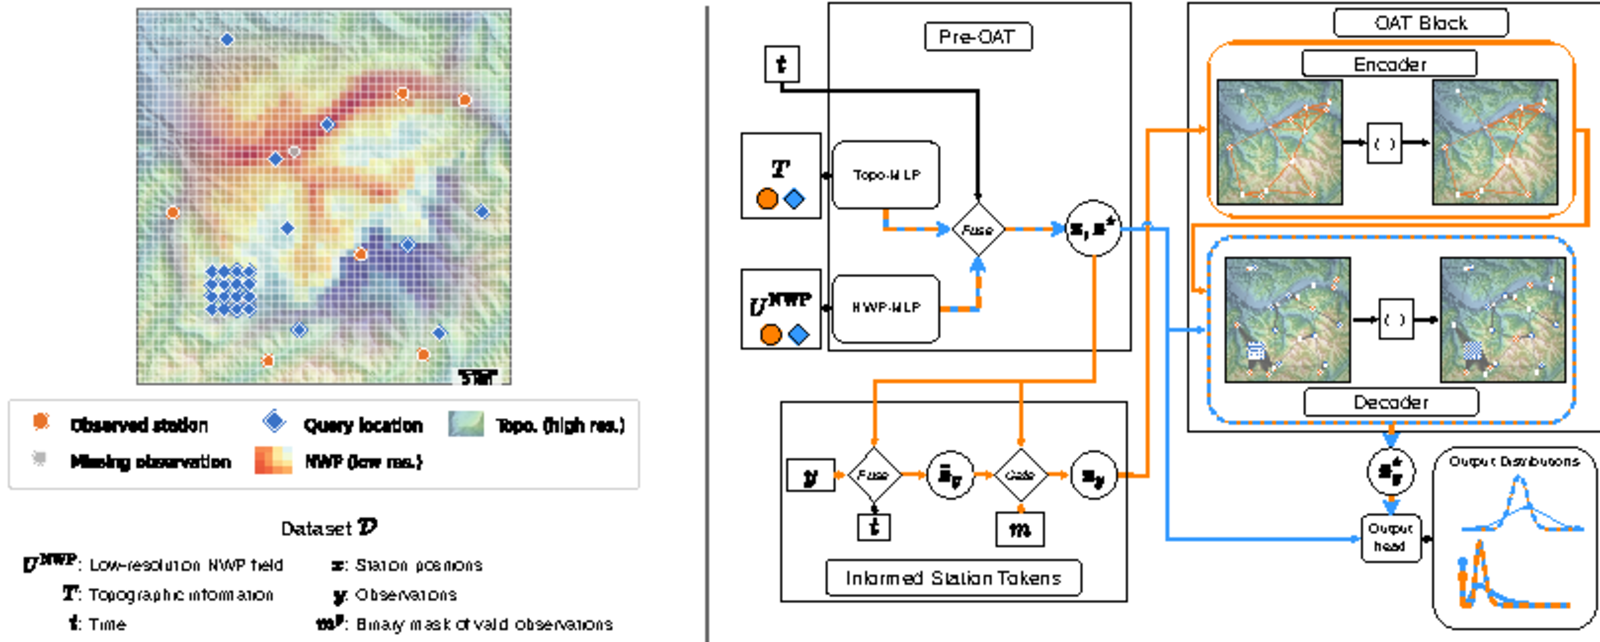
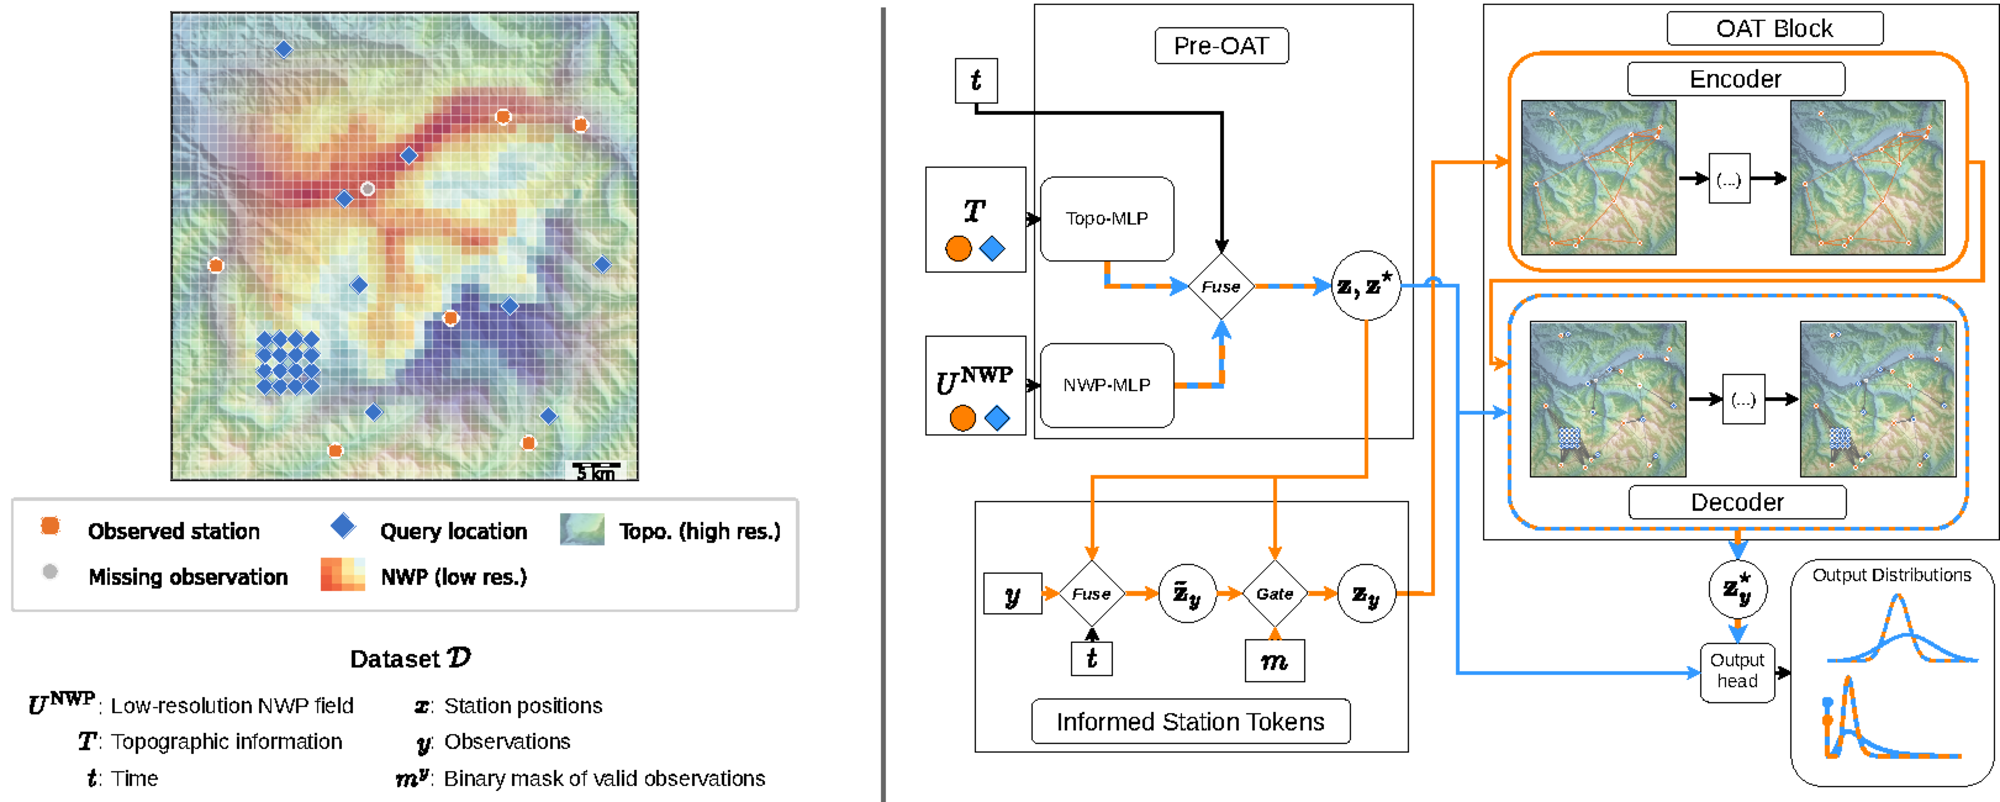
fix: clear the result folder note, scrub tar owners, and polish the docs

diff --git a/release/pack_artifacts.py b/release/pack_artifacts.py
@@ -46,6 +46,13 @@ def _walk(src: Path) -> list[Path]:
     return sorted(found)
 
 
+def _scrub_owner(info: tarfile.TarInfo) -> tarfile.TarInfo:
+    """Remove the owner names and ids. Keep the mode and the time."""
+    info.uid = info.gid = 0
+    info.uname = info.gname = ""
+    return info
+
+
 def _tar_tree(src: Path, arc_root: str, tar_path: Path, sums: list[str]) -> None:
     """Write the files below *src* to *tar_path* as ``<arc_root>/<rel>``."""
     files = _walk(src)
@@ -54,7 +61,7 @@ def _tar_tree(src: Path, arc_root: str, tar_path: Path, sums: list[str]) -> None
     with tarfile.open(tar_path, "w", dereference=True) as tar:
         for f in files:
             arc = f"{arc_root}/{f.relative_to(src).as_posix()}"
-            tar.add(f, arcname=arc, recursive=False)
+            tar.add(f, arcname=arc, recursive=False, filter=_scrub_owner)
             sums.append(f"{file_digest(f, 'sha256')}  {arc}")
 
 

diff --git a/test/oat_test/release/test_pack_artifacts.py b/test/oat_test/release/test_pack_artifacts.py
@@ -36,6 +36,9 @@ def test_pack_checkpoints_member_names_and_sums(tmp_path):
         ]
     with tarfile.open(out / "results.tar") as tar:
         assert tar.getnames() == ["data/results/tag_metrics_test.csv"]
+    for name in ("checkpoints.tar", "results.tar"):
+        with tarfile.open(out / name) as tar:
+            assert all(m.uname == "" and m.uid == 0 for m in tar.getmembers())
     sums = _sums(out / SUMS_NAME)
     assert set(sums) == {
         "checkpoints/oat_field/run_a/best.ckpt",

diff --git a/test/oat_test/scripts/test_download_artifacts.py b/test/oat_test/scripts/test_download_artifacts.py
@@ -65,6 +65,7 @@ def zenodo(monkeypatch):
         meta_override=meta_override,
     )
     srv.shutdown()
+    srv.server_close()
 
 
 def _record_from(folder):

diff --git a/REPRODUCE.md b/REPRODUCE.md
@@ -10,7 +10,7 @@ Each script writes to `figures/out/`. It stops with one message when an input is
 
 | Paper item | Script | Needs | Approximate run time |
 |---|---|---|---|
-| Table 1 (`tab:ml_results`, `tab:ci_table`) | `figures/generate_table1.sh` | Europe data and checkpoints. Swiss rows: the released result files, or MeteoSwiss data. | 4 h on 8 CPU cores (Europe evaluations) |
+| Table 1 (`tab:ml_results`, `tab:ci_table`, `tab:att_oat_perf`) | `figures/generate_table1.sh` | Europe data and checkpoints. Swiss rows: the released result files, or MeteoSwiss data. | 4 h on 8 CPU cores (Europe evaluations) |
 | Figure 1 (`fig:oat`), panels only | `figures/generate_fig1.sh` | MeteoSwiss data | minutes |
 | Figure 2 (`fig:data`) | `figures/generate_fig2.sh` | Europe data and MeteoSwiss data | minutes |
 | Figure 3 (`fig:example_field`) | `figures/generate_fig3.sh` | MeteoSwiss data, Swiss OAT checkpoint | minutes |
@@ -24,7 +24,8 @@ Each script writes to `figures/out/`. It stops with one message when an input is
 Notes:
 
 - The run times come from the paper runs (2026). The figure and benchmark times depend on the hardware. The benchmark figures show the times of your hardware, not the paper times.
-- `generate_table1.sh` writes new Europe result files into `data/results/`. They replace the released files of the same name. Keep a copy of the released files if you want to compare.
+- `generate_table1.sh` and `generate_fig5.sh` (when it computes missing dumps) write new result files (`<tag>_metrics_test.csv` and `<tag>_metrics_test.summary.json`) into `data/results/`. They replace the released files of the same name. Keep a copy of the released files if you want to compare.
+- The result files unpack to `<dest>/data/results`. The scripts `build_results_table` and `evaluate_test_set` always use `<repo>/data/results`. With another `--dest`, give `--results-dir <dest>/data/results` to `build_results_table`. Or download the checkpoints record with `--dest .`.
 - To build the table from the released result files only: `poetry run python -m scripts.build_results_table --results-dir data/results`.
 - The paper layout of figure 1 was put together by hand from the panels.
 - `DRY_RUN=1 bash figures/<script>` prints the commands and does not run them.

diff --git a/README.md b/README.md
@@ -8,7 +8,7 @@ This repository holds the code of the paper "Observation Assimilation Transforme
 
 ## Install
 
-You need Python 3.12 and [Poetry](https://python-poetry.org/) 2.x. A CUDA GPU is optional; only the scaling benchmarks (figures 8 and 9) need one.
+You need Python 3.12 and [Poetry](https://python-poetry.org/) 2.x. A CUDA GPU is optional. Figures 8 and 9 (scaling benchmarks) need a CUDA GPU. Figures 4 and 7 run faster on a GPU.
 
 ```bash
 git clone https://github.com/SwissDataScienceCenter/observation_assimilation_transformer.git
@@ -32,6 +32,10 @@ poetry run python -m scripts.download_artifacts --what all --dest .
 ```
 
 The script checks each file and puts the files into `checkpoints/` and `data/`. These are the default folders. To use other folders, set `OAT_CKPT_ROOT` and `OAT_DATA_ROOT`.
+
+The checkpoint record is about 61 MB. The data record is about 13 GB (the ERA5 zarr is about 12 GB). The unpack needs about two times the size of the largest tar file as free disk space, because the tar file stays until it is unpacked.
+
+The result files go to `<dest>/data/results`. The scripts `build_results_table` and `evaluate_test_set` always use `<repo>/data/results`. With another `--dest`, give `--results-dir <dest>/data/results` to `build_results_table`. Or download the checkpoints record with `--dest .`.
 
 The Swiss dataset (COSMO-1E, COSMO-E1 and PeakWeather as prepared for the paper) is not public. You cannot compute the Swiss rows of the results table again without MeteoSwiss data. The released result files give these rows.
 
